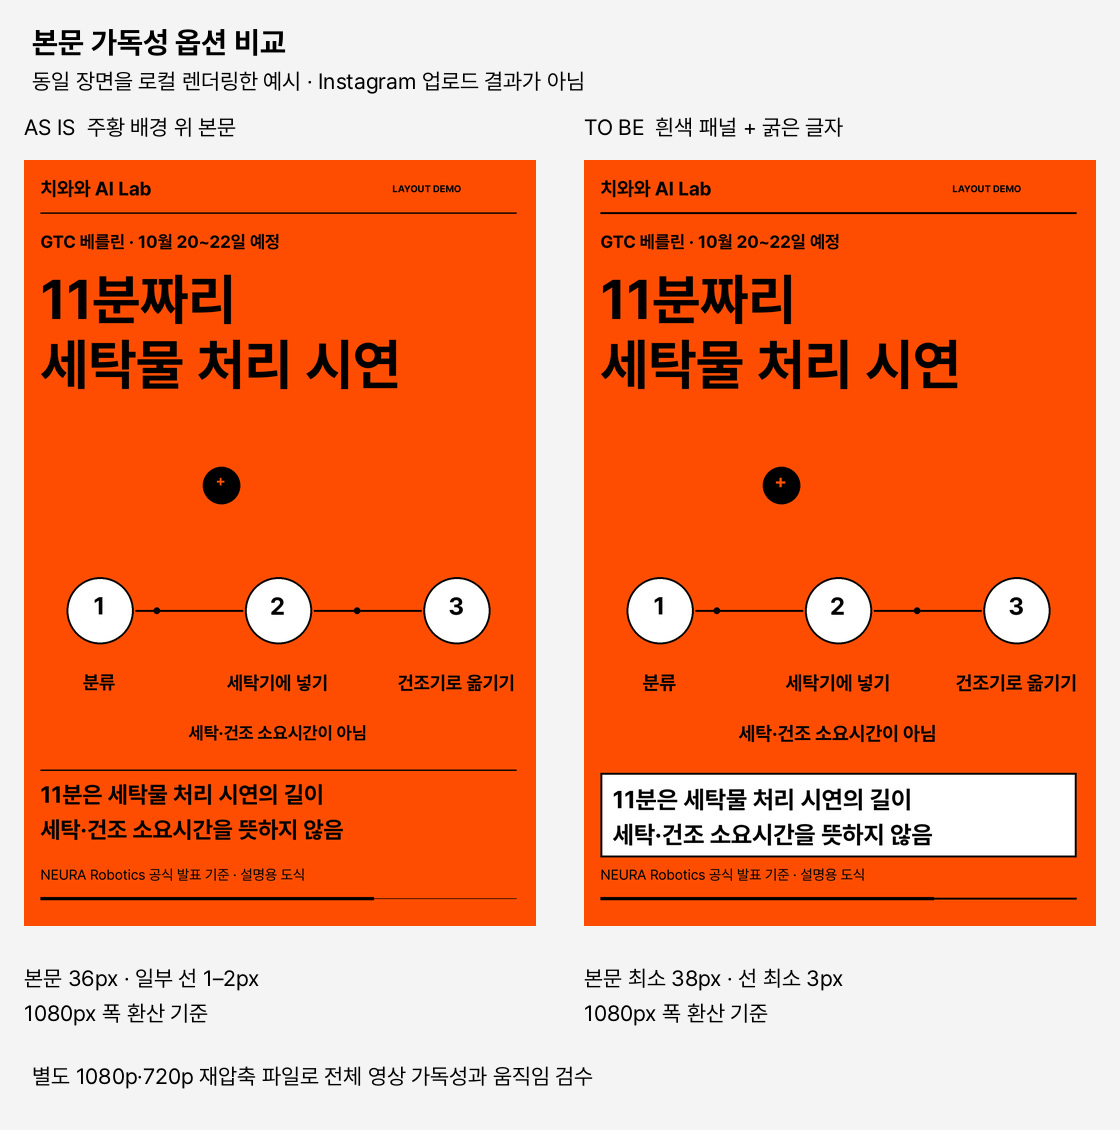
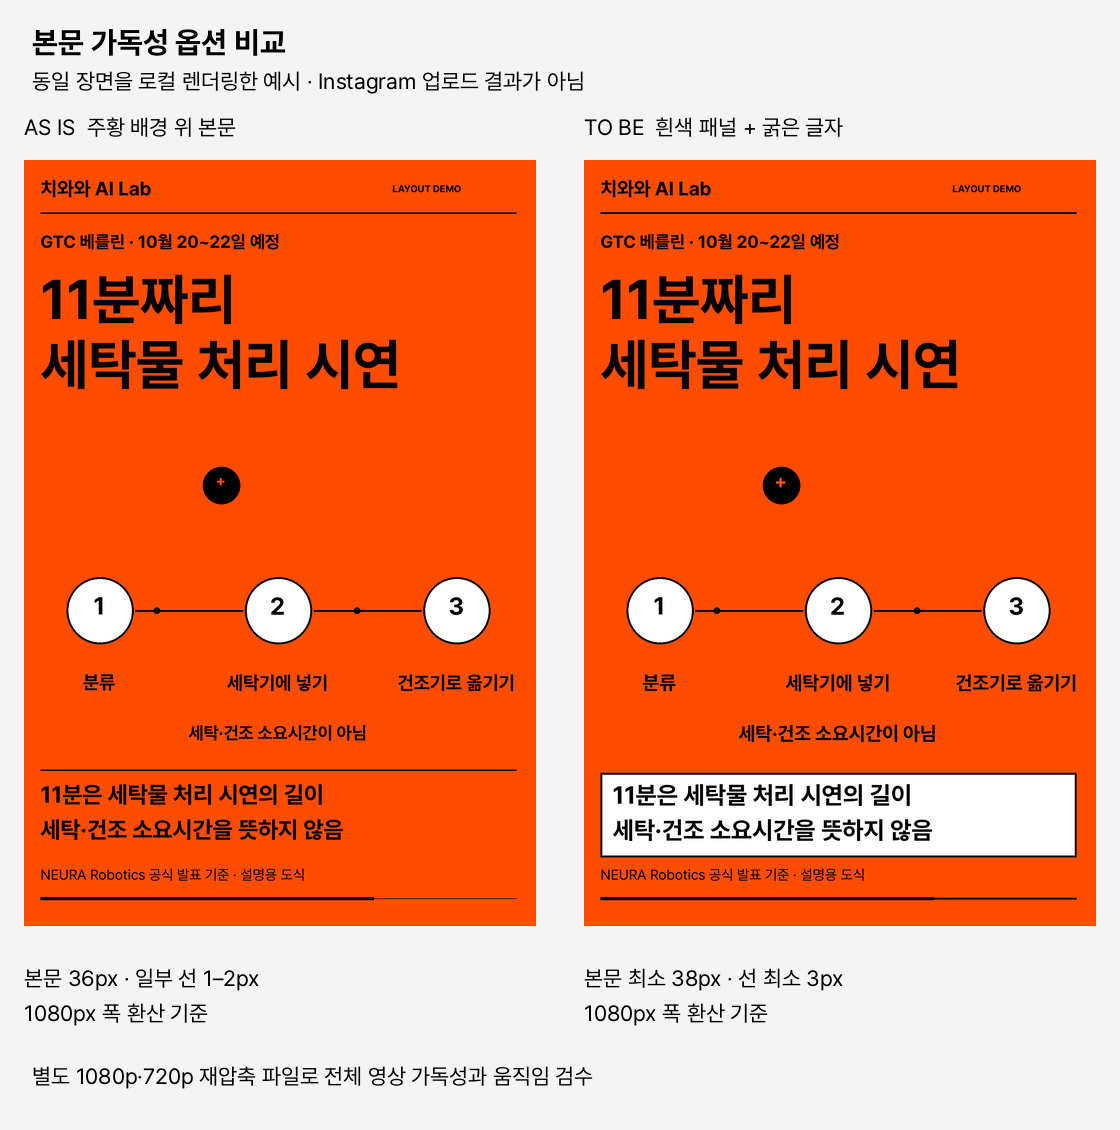
Keep light-panel copy within bounds across font environments

Changed region(s): [[0.5312, 0.6814, 0.8438, 0.7743]]

diff --git a/tracks/auto-post/skills/instagram-content/scripts/render_reel.py b/tracks/auto-post/skills/instagram-content/scripts/render_reel.py
@@ -177,7 +177,7 @@ class Renderer:
         else:
             self.line(d,(self.x(.02),self.y(.808),self.x(.98),self.y(.808)),2)
         for j,value in enumerate(scene['body']):
-            self.text(im,self.x(.045 if light_panel else .02),self.y(.833+j*.047 if light_panel else .827+j*.047),
+            self.text(im,self.x(.045 if light_panel else .02),self.y(.827+j*.047),
                       value,36,color=self.panel_ink if light_panel else self.ink)
         self.section='credit'
         self.text(im,self.x(.02),self.y(.94),scene['credit'],22,bold=False)

diff --git a/tracks/auto-post/projects/instagram-production/docs/reel-workflow.md b/tracks/auto-post/projects/instagram-production/docs/reel-workflow.md
@@ -28,6 +28,8 @@
 
 2026-10-15 추가 검증에서는 **34개 테스트**를 통과했습니다. 기존 60초·2160×3840 원본으로 두 검수 파일을 생성했고, 각각 1,800프레임·30fps·음성 없음·전체 디코딩과 원본 SHA-256 보존을 확인했습니다. 한국어 예제의 비미디어 장면도 시작·중간·끝 프레임의 글자·도형 범위를 확인했습니다. 비교 이미지에서는 3·30·50초를 살펴봤으며, 전체 영상의 수동 가독성·움직임 검수와 실제 Instagram 결과 확인은 별도입니다. 보고서는 이를 자동 통과로 처리하지 않습니다. 아래 28개 테스트와 기존 데모의 기록은 최초 제출 시점의 결과로 보존합니다.
 
+새 패널의 Linux 글꼴 높이 차이로 발견한 아래 여백 문제를 수정했습니다. 글자 크기를 줄이지 않고 본문을 위로 배치한 뒤 기본 글꼴과 Noto Sans CJK에서 각각 34개 테스트를 재실행했습니다. 한국어 예제의 장면 범위도 Pretendard와 Noto Sans CJK 양쪽에서 확인했습니다.
+
 ## 재현 방법
 
 [Reel 하네스 안내](../../../skills/instagram-content/references/reel-harness.md)에 설치 요구 사항, 실행 명령, 여섯 장면 형식과 출력 파일이 있습니다. 영어 데모는 스킬의 `references/reel.example.json`, 계정 예제는 [Neuron AI 재현 입력](../examples/chihuahua-ai/neuron-reel-2026-10-15.json)을 사용합니다.
